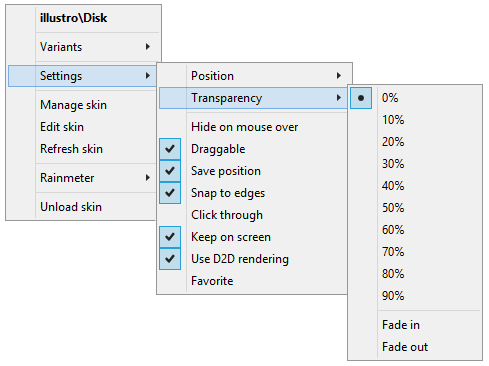
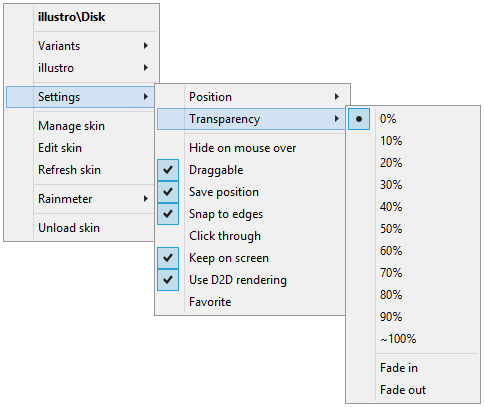
Changed image and text for "Transparency" entry in Context Menus.

Changed region(s): [[0.0, 0.0, 1.0, 1.0]]

diff --git a/source/manual-beta/user-interface/context-menus.html b/source/manual-beta/user-interface/context-menus.html
@@ -87,7 +87,7 @@ title: 'Context Menus'
 </div>
 
 <ul>
-<li><b>Percentage</b>: (e.g. 0% - 90%) Amount of transparency for the entire skin, expressed as a percentage.</li>
+<li><b>Percentage</b>: (e.g. 0% - ~100%) Amount of transparency for the entire skin, expressed as a percentage. <code>~100</code> is an opacity of <code>1</code> which is invisible but still reacts to the mouse.</li>
 <li><b>Fade in</b>: On mouse over, the skin will fade from the amount of transparency set as a percentage above to opaque.</li>
 <li><b>Fade out</b>: On mouse over, the skin will fade from opaque to the amount of transparency set as a percentage above.</li>
 </ul>
